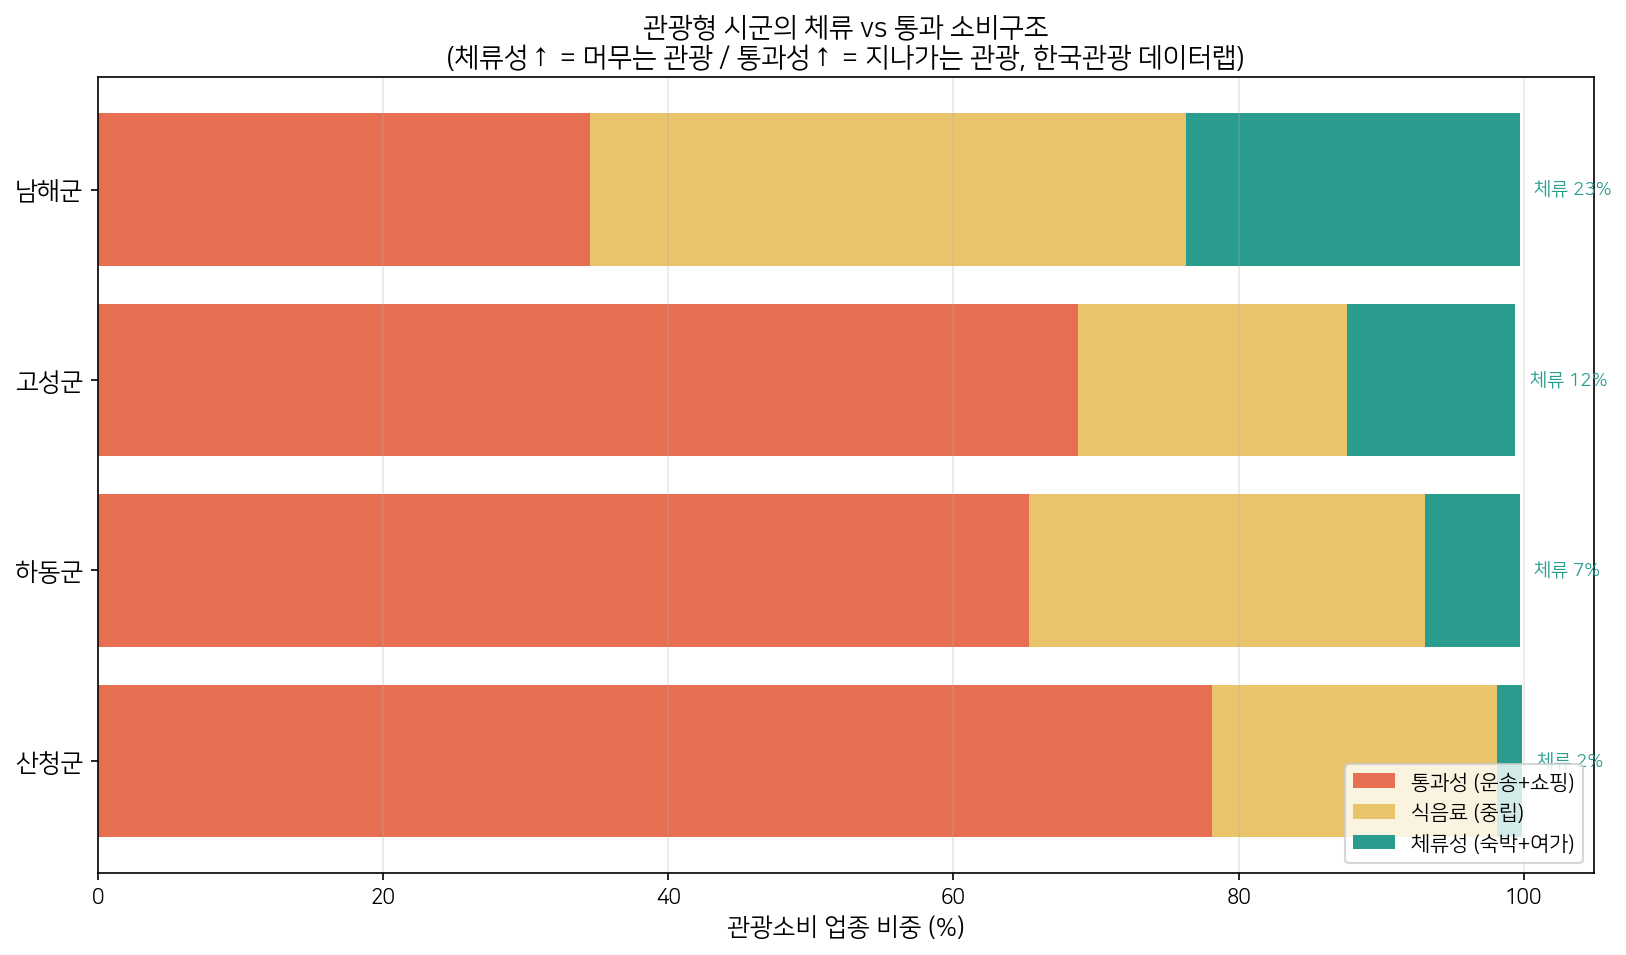
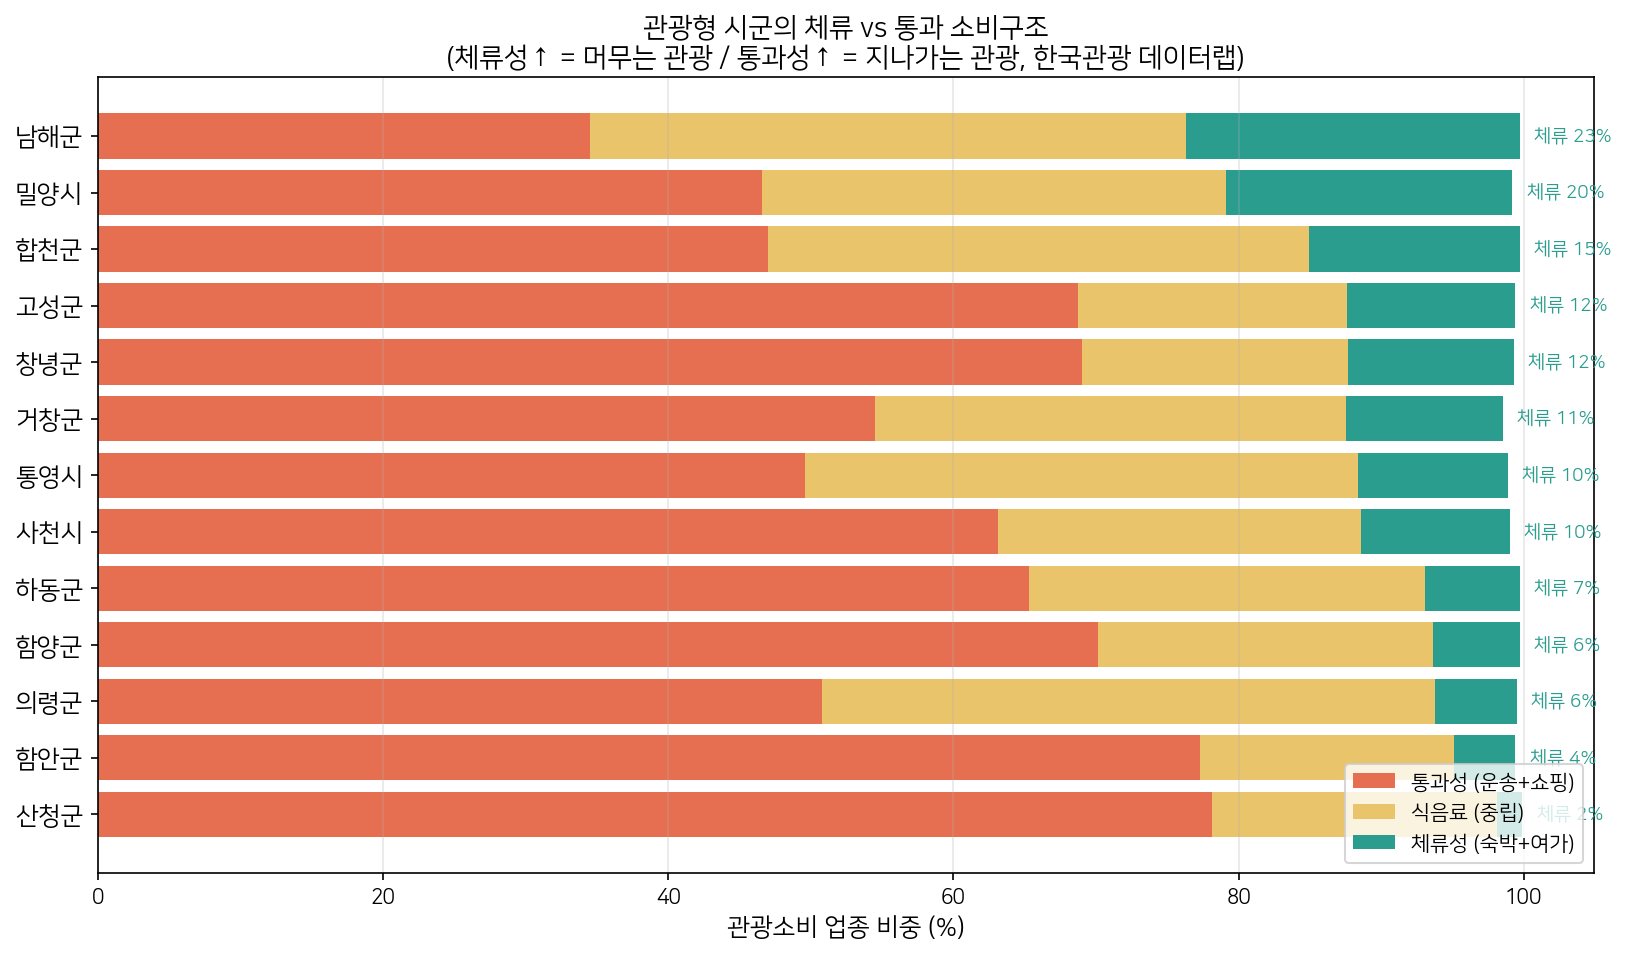
보고서 v4 — 실현성·13곳 관광데이터·정직성 보강
- §5.5 실현 가능성(지방소멸대응기금 연계·강진 반값여행 벤치마킹)
- 하동 해결방안 카드에 실행·재원·KPI 행 / §6 기대효과 강진 실측 캘리브레이션
- 관광 데이터랩 13곳 확장(그림10 교체), 합천 골프 caveat
- 의료 비유 '처방/처방전' → '해결방안' 직설 전환
- 그림 11개 85% 축소(분량 관리)
- MI 순환논리 '검증' 표현 제거 + §7에 외부검증 미완 한계 정직 반영
  (국세청 사업자 증감으로 MI 외부검증 시도 → 무상관 확인)
- run_voc.py(VOC 리뷰 크롤러) 추가

diff --git a/eum_package/eum_analysis/run_voc.py b/eum_package/eum_analysis/run_voc.py
@@ -1,0 +1,134 @@
+# -*- coding: utf-8 -*-
+"""
+이음(E-um) — VOC(리뷰) 소량 수집기  [보조 분석: '왜 소비가 안 되나'의 정성 근거]
+
+목적: 산청·하동 핵심 관광지의 방문자 후기를 소량 수집해, 본 보고서가 데이터로
+      보인 '통과형 소비구조'(데이터랩: 산청 체류성 1.8%)를 방문자 목소리로 보강한다.
+
+수집 대상(네이버 지도 '방문자 리뷰'):
+  - 산청: 동의보감촌, 남사예담촌
+  - 하동: 화개장터, 최참판댁(악양)
+
+산출물:
+  - eum_analysis/phase2/voc_reviews.csv        (장소, 평점/방문키워드, 작성일, 본문)
+  - 콘솔: 소비·체류 관련 키워드 빈도 표 (먹을곳/식당/카페/주차/체류/볼거리/결제 등)
+
+※ 주의
+  - 네이버 지도는 동적(JS)·iframe 구조라 Selenium 필요. 사이트 DOM이 바뀌면
+    CSS 선택자(SELECTORS)를 콘솔에서 확인 후 한 줄만 고치면 된다.
+  - '소량'이 목적이므로 장소당 최근 리뷰 약 40~60개만 수집한다(과수집 금지).
+
+설치:
+  pip install selenium webdriver-manager beautifulsoup4 pandas
+실행:
+  python eum_analysis/run_voc.py
+"""
+import time, re, csv, sys
+from collections import Counter
+
+try:
+    import pandas as pd
+    from bs4 import BeautifulSoup
+    from selenium import webdriver
+    from selenium.webdriver.chrome.options import Options
+    from selenium.webdriver.common.by import By
+    from webdriver_manager.chrome import ChromeDriverManager
+    from selenium.webdriver.chrome.service import Service
+except ImportError as e:
+    sys.exit(f"[의존성 누락] {e}\n  pip install selenium webdriver-manager beautifulsoup4 pandas")
+
+# ── 수집 대상 ──────────────────────────────────────────────
+TARGETS = [
+    ("산청", "동의보감촌"),
+    ("산청", "남사예담촌"),
+    ("하동", "화개장터"),
+    ("하동", "최참판댁"),
+]
+MAX_REVIEWS_PER_PLACE = 50          # 장소당 상한(소량)
+SCROLL_ROUNDS = 12
+
+# 소비전환/체류 진단 키워드(빈도 집계용) — 우리 처방 가설과 직접 연결
+KW = {
+    "먹거리·식당": ["먹을", "식당", "맛집", "음식", "카페", "메뉴", "밥집"],
+    "체류·볼거리": ["볼거리", "둘러볼", "금방", "심심", "할게없", "체류", "머물", "코스", "짧"],
+    "주차·접근": ["주차", "교통", "버스", "멀", "접근"],
+    "결제·상점": ["결제", "카드", "현금", "상점", "가게", "살게", "살 게", "기념품"],
+    "가격·불만": ["비싸", "아쉽", "실망", "별로", "불편"],
+}
+
+def make_driver():
+    opt = Options()
+    opt.add_argument("--headless=new")
+    opt.add_argument("--lang=ko_KR")
+    opt.add_argument("--window-size=1280,2000")
+    opt.add_argument("user-agent=Mozilla/5.0 (Windows NT 10.0; Win64; x64) Chrome/124.0 Safari/537.36")
+    return webdriver.Chrome(service=Service(ChromeDriverManager().install()), options=opt)
+
+def collect_place(driver, region, name):
+    """네이버 지도 검색 → 첫 결과 → 리뷰 탭 → 본문 수집."""
+    q = f"{region} {name}"
+    driver.get(f"https://map.naver.com/p/search/{q}")
+    time.sleep(3)
+    reviews = []
+    try:
+        # 검색결과/장소 entryIframe 진입 (네이버 지도 구조)
+        driver.switch_to.default_content()
+        # searchIframe에서 첫 장소 클릭
+        try:
+            driver.switch_to.frame("searchIframe")
+            driver.find_elements(By.CSS_SELECTOR, "a")[0].click()
+            time.sleep(2)
+            driver.switch_to.default_content()
+        except Exception:
+            driver.switch_to.default_content()
+        driver.switch_to.frame("entryIframe")
+        time.sleep(2)
+        # '리뷰' 탭 클릭
+        for a in driver.find_elements(By.CSS_SELECTOR, "a, span"):
+            if a.text.strip() in ("리뷰", "방문자 리뷰"):
+                a.click(); break
+        time.sleep(2)
+        # 스크롤하며 리뷰 로딩
+        for _ in range(SCROLL_ROUNDS):
+            driver.execute_script("window.scrollTo(0, document.body.scrollHeight);")
+            time.sleep(1.2)
+            soup = BeautifulSoup(driver.page_source, "html.parser")
+            # 리뷰 본문 후보(클래스는 사이트 변경 시 콘솔에서 확인 후 수정)
+            cand = [t.get_text(" ", strip=True) for t in soup.select("div.pui__vn15t2, span.zPfVt, div.review_text")]
+            for c in cand:
+                if c and len(c) > 5 and c not in reviews:
+                    reviews.append(c)
+            if len(reviews) >= MAX_REVIEWS_PER_PLACE:
+                break
+    except Exception as e:
+        print(f"  [경고] {q} 수집 일부 실패: {e}  → 선택자(SELECTORS) 확인 필요")
+    return [{"region": region, "place": name, "text": r} for r in reviews[:MAX_REVIEWS_PER_PLACE]]
+
+def main():
+    driver = make_driver()
+    rows = []
+    for region, name in TARGETS:
+        print(f"[수집] {region} {name} ...")
+        rows += collect_place(driver, region, name)
+        print(f"  누적 {len(rows)}건")
+    driver.quit()
+
+    if not rows:
+        print("\n수집 0건 — 네이버 지도 DOM 변경 가능. collect_place()의 CSS 선택자를 확인하세요.")
+        return
+    df = pd.DataFrame(rows)
+    out = "eum_analysis/phase2/voc_reviews.csv"
+    df.to_csv(out, index=False, encoding="utf-8-sig")
+    print(f"\n저장: {out}  (총 {len(df)}건)")
+
+    # 소비·체류 키워드 빈도
+    print("\n=== 소비전환/체류 관련 VOC 키워드 빈도 ===")
+    text_all = " ".join(df["text"])
+    n = len(df)
+    for theme, words in KW.items():
+        hits = sum(text_all.count(w) for w in words)
+        docs = sum(any(w in t for w in words) for t in df["text"])
+        print(f"{theme:10s} | 언급 {hits:4d}회 | 리뷰 {docs}/{n}건({docs*100//max(n,1)}%)")
+
+if __name__ == "__main__":
+    main()